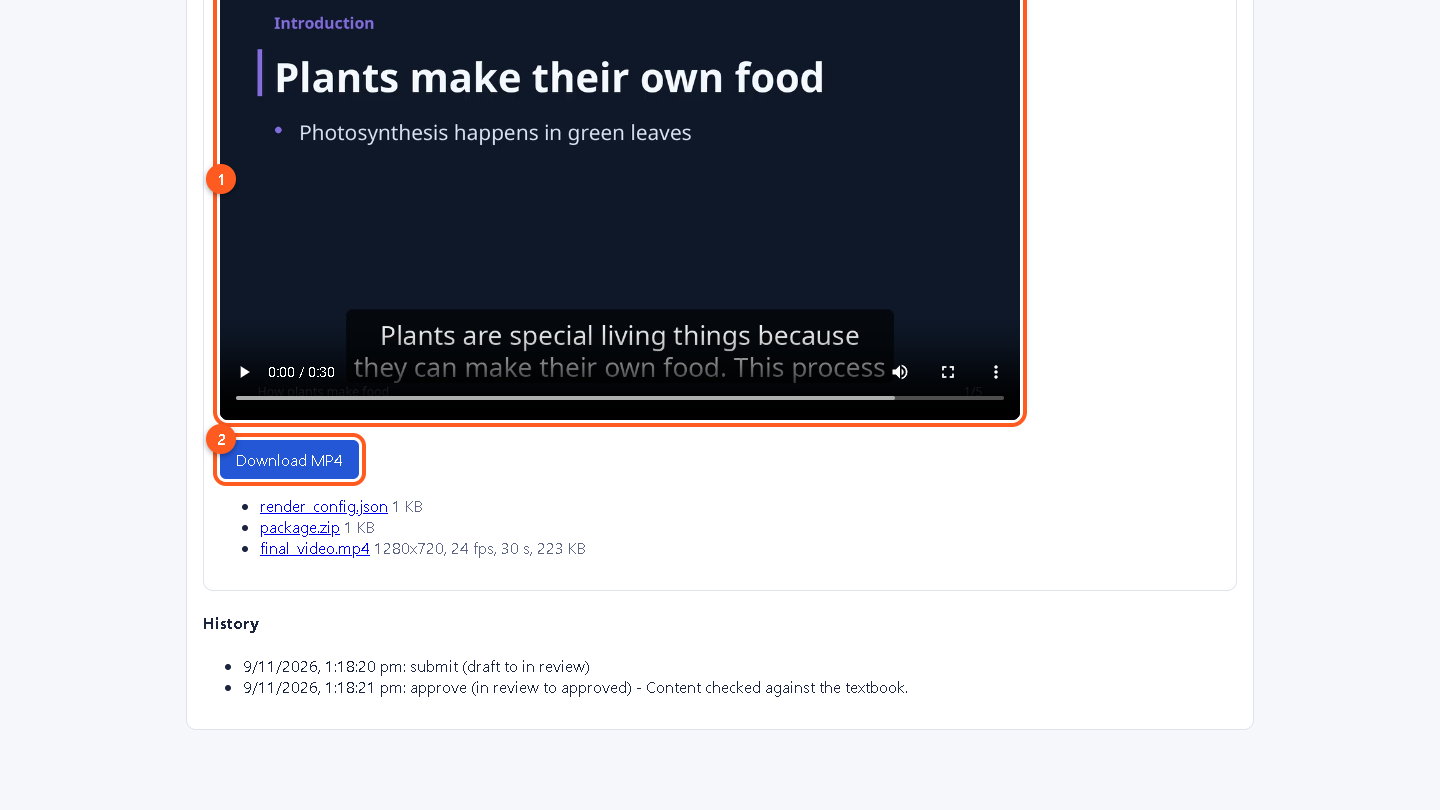
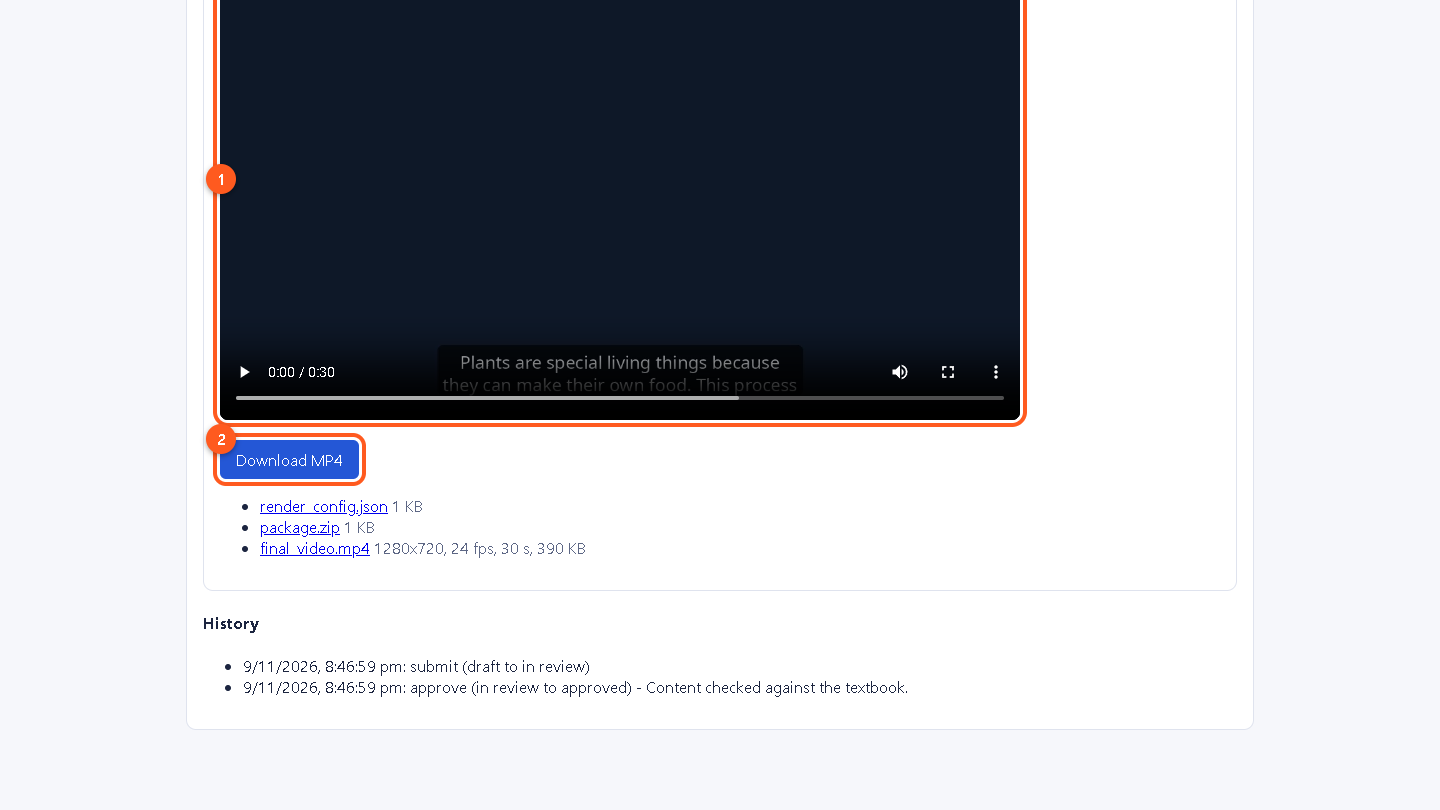
Sprint 9: animated slides user guide, POC report, handover and tracker

Changed region(s): [[0.2188, 0.3704, 0.625, 0.4938], [0.1562, 0.0, 0.5938, 0.1235], [0.1875, 0.1543, 0.4688, 0.1852]]

diff --git a/docs/poc/write_report.py b/docs/poc/write_report.py
@@ -22,7 +22,7 @@ report = f"""# Sprint 7 POC report: Class 7 Science, Nutrition in Plants / Photo
 
 Three videos, one per language, each made through the real chain: Academic API (import, approve, generate) -> Video Engine API -> worker -> MP4 -> Academic storage -> download. Content is in `docs/poc/<language>/` (10 slides each). The run is reproducible with `docs/poc/run_poc.py`.
 
-**Overall: the pipeline works for all three languages. Hindi and Marathi narration is NOT validated (BLOCKED), and the English voice is only a test voice.** Do not present these as final videos.
+**Overall: the pipeline works for all three languages. Hindi and Marathi narration is NOT validated (BLOCKED), and the English voice is only a test voice.** Do not present these as final videos. The slides are Level 1 animated slides; the earlier static-slide run is kept in `results-static/`.
 
 ## Results
 
@@ -40,11 +40,17 @@ Three videos, one per language, each made through the real chain: Academic API (
 | Slides match the audio (checked with a frame from the middle of each slide's audio window; the on-screen counter matches the slide) | PASS | PASS (placeholder timing) | PASS (placeholder timing) |
 | **Caption sync with real speech** | PASS in timing logic; not independently checked against a human ear | **BLOCKED** (no speech) | **BLOCKED** (no speech) |
 | Devanagari text shaping on slides and captions | n/a | PASS (visual check of contact sheet) | PASS (visual check of contact sheet) |
-| Visuals / animation | LIMITED: clean text slides (headline and bullets). No diagrams, pictures or animation | same | same |
+| Visuals / animation | PASS for Level 1 animated slides: the headline slides in, bullets/steps/terms appear as the narrator reaches them, the current item is highlighted, arrows are drawn, slides fade between each other. Slides 2, 6, 8 and 10 use a comparison, the equation and two flows. LIMITED: no pictures, characters or 3D | same | same |
 | MP4 valid: H.264 + AAC, 1920x1080, 24 fps, decodes with no errors | PASS | PASS | PASS |
 | Duration about 5 minutes | PASS: {mmss(res['en-IN']['duration_s'])} (script is {res['en-IN']['narration_total_s']} s of narration) | PASS: {mmss(res['hi-IN']['duration_s'])} | PASS: {mmss(res['mr-IN']['duration_s'])}, but placeholder timing; real Marathi speech may be shorter or longer |
 | Reproducibility (same package and audio rendered twice) | PASS: video frames identical = {rep['video_frames_identical']}, audio identical = {rep['audio_identical']}, file bytes identical = {rep['file_bytes_identical']} | not run | not run |
 | End to end without copying files between the two apps | PASS | PASS | PASS |
+
+## Animated slides (second run)
+
+The POC was re-run with `render.style = animated` (the default in the app). Results are in the table above. Animating did not change the run time noticeably (frames that do not change are re-used). Frames from the finished videos (`results/contact-<lang>.png`) show items revealed part-way through slides, the current item in bold, flow arrows being drawn, and correct Devanagari shaping.
+
+Found in this run and fixed: the arrow in the equation slide showed as an empty box in Hindi and Marathi, because the Devanagari font has no arrow glyph. Operators are now drawn as shapes. Narration sync is an estimate from sentence lengths and the real audio duration, not word-level alignment, and was not checked against real Hindi or Marathi speech.
 
 ## What the POC found and fixed
 

diff --git a/docs/poc/POC_REPORT.md b/docs/poc/POC_REPORT.md
@@ -2,15 +2,15 @@
 
 Three videos, one per language, each made through the real chain: Academic API (import, approve, generate) -> Video Engine API -> worker -> MP4 -> Academic storage -> download. Content is in `docs/poc/<language>/` (10 slides each). The run is reproducible with `docs/poc/run_poc.py`.
 
-**Overall: the pipeline works for all three languages. Hindi and Marathi narration is NOT validated (BLOCKED), and the English voice is only a test voice.** Do not present these as final videos.
+**Overall: the pipeline works for all three languages. Hindi and Marathi narration is NOT validated (BLOCKED), and the English voice is only a test voice.** Do not present these as final videos. The slides are Level 1 animated slides; the earlier static-slide run is kept in `results-static/`.
 
 ## Results
 
 | Language | Duration | Resolution | Codec | Decode errors | Size |
 |---|---|---|---|---|---|
-| English | 4:02 | 1920x1080 @ 24 fps | h264 + audio | none | 6.71 MB |
-| Hindi | 4:07 | 1920x1080 @ 24 fps | h264 + audio | none | 2.14 MB |
-| Marathi | 4:04 | 1920x1080 @ 24 fps | h264 + audio | none | 2.05 MB |
+| English | 4:02 | 1920x1080 @ 24 fps | h264 + audio | none | 7.71 MB |
+| Hindi | 4:07 | 1920x1080 @ 24 fps | h264 + audio | none | 3.05 MB |
+| Marathi | 4:04 | 1920x1080 @ 24 fps | h264 + audio | none | 3.0 MB |
 
 ## Validation against the POC criteria
 
@@ -22,11 +22,17 @@ Three videos, one per language, each made through the real chain: Academic API (
 | Slides match the audio (checked with a frame from the middle of each slide's audio window; the on-screen counter matches the slide) | PASS | PASS (placeholder timing) | PASS (placeholder timing) |
 | **Caption sync with real speech** | PASS in timing logic; not independently checked against a human ear | **BLOCKED** (no speech) | **BLOCKED** (no speech) |
 | Devanagari text shaping on slides and captions | n/a | PASS (visual check of contact sheet) | PASS (visual check of contact sheet) |
-| Visuals / animation | LIMITED: clean text slides (headline and bullets). No diagrams, pictures or animation | same | same |
+| Visuals / animation | PASS for Level 1 animated slides: the headline slides in, bullets/steps/terms appear as the narrator reaches them, the current item is highlighted, arrows are drawn, slides fade between each other. Slides 2, 6, 8 and 10 use a comparison, the equation and two flows. LIMITED: no pictures, characters or 3D | same | same |
 | MP4 valid: H.264 + AAC, 1920x1080, 24 fps, decodes with no errors | PASS | PASS | PASS |
 | Duration about 5 minutes | PASS: 4:02 (script is 242.2 s of narration) | PASS: 4:07 | PASS: 4:04, but placeholder timing; real Marathi speech may be shorter or longer |
 | Reproducibility (same package and audio rendered twice) | PASS: video frames identical = True, audio identical = True, file bytes identical = True | not run | not run |
 | End to end without copying files between the two apps | PASS | PASS | PASS |
+
+## Animated slides (second run)
+
+The POC was re-run with `render.style = animated` (the default in the app). Results are in the table above. Animating did not change the run time noticeably (frames that do not change are re-used). Frames from the finished videos (`results/contact-<lang>.png`) show items revealed part-way through slides, the current item in bold, flow arrows being drawn, and correct Devanagari shaping.
+
+Found in this run and fixed: the arrow in the equation slide showed as an empty box in Hindi and Marathi, because the Devanagari font has no arrow glyph. Operators are now drawn as shapes. Narration sync is an estimate from sentence lengths and the real audio duration, not word-level alignment, and was not checked against real Hindi or Marathi speech.
 
 ## What the POC found and fixed
 

diff --git a/docs/user-guide/USER_GUIDE.md b/docs/user-guide/USER_GUIDE.md
@@ -133,6 +133,27 @@ Production operator, on an **approved** version, in step 5 **Make the video**.
 
 If something fails, the message says what happened. **Try again** is offered when it is safe; **Cancel** stops an unfinished video; **Make the video again** starts a new one after content changes.
 
+## 7. Animated slides
+
+Videos are made with **animated slides** by default (Slides: *Animated (recommended)* in step 5; choose *Plain* for still slides). The headline slides in, the points of each slide appear one by one as the narrator reaches them, the point being spoken is highlighted, and slides fade into each other. Timing follows the narration sentence by sentence (an estimate, not word by word).
+
+A slide can use a layout instead of bullets. The ChatGPT prompt already asks for them, in `lesson_plan.json` under `slides`:
+
+| Layout | Use it for | Example |
+|---|---|---|
+| `bullets` (default) | short points | `"bullets": ["Sunlight gives energy", "Water from the roots"]` |
+| `flow` | a procedure or inputs, process, outputs; 2 to 5 steps, arrows are drawn | `"diagram": {"steps": ["Boil the leaf", "Add iodine", "Blue-black means starch"]}` |
+| `equation` | a formula; terms appear in order | `"diagram": {"terms": ["Carbon dioxide", "+", "Water", "→", "Glucose"]}` |
+| `cycle` | a loop of 3 to 6 stages, e.g. the water cycle | `"diagram": {"nodes": ["Evaporation", "Condensation", "Precipitation", "Collection"]}` |
+| `compare` | two things side by side | `"diagram": {"left": {"title": "A", "points": ["..."]}, "right": {"title": "B", "points": ["..."]}}` |
+
+Keep labels short (1 to 4 words) and list items in the order the narrator says them. If a diagram is not valid, the import check names the slide and the problem. Details: `ScriptToVideo/docs/architecture/ANIMATED_SLIDES.md`.
+
+![Flow](img/anim-flow.png)
+![Equation](img/anim-equation.png)
+![Cycle](img/anim-cycle.png)
+![Compare](img/anim-compare.png)
+
 ## Videos for each part
 
 | Part | Video |
@@ -141,7 +162,8 @@ If something fails, the message says what happened. **Try again** is offered whe
 | Set up and create a lesson (sections 1 and 2) | `docs/demos/sprint-4-foundation.mp4` |
 | From content to approval (sections 3 to 5) | `docs/demos/sprint-5-import-review.mp4` |
 | Make the video (section 6) | `docs/demos/sprint-6-integration.mp4` |
-| **Everything above in one video (7.5 minutes)** | `docs/demos/full-user-guide.mp4` |
+| Animated slides (section 7) | `docs/demos/sprint-9-animated-slides.mp4` |
+| **Everything above in one video (about 10 minutes)** | `docs/demos/full-user-guide.mp4` |
 
 
 ## Rebuilding the screens and videos

diff --git a/docs/HANDOVER.md b/docs/HANDOVER.md
@@ -63,7 +63,7 @@ Names and purpose only: `.env.example` in each repo; production values in Coolif
 
 ## 9. Known limitations and variant readiness
 
-- Slides are clean text (headline and bullets); no pictures, diagrams or animation unless images are supplied in the package.
+- **Level 1 animated slides** (default; `render.style`): headline, bullets, flow, equation, cycle and comparison layouts, narration-synced reveals, highlighting, fades. Timing is an estimate from sentence lengths, not word-level. No pictures, photographs, characters or 3D (Level 2 and 3 are not built). Plain still slides remain available. See `ScriptToVideo/docs/architecture/ANIMATED_SLIDES.md`.
 - Colab narration is a manual step per language version; the notebook was never run; the model (AI4Bharat Indic Parler-TTS) and its licence are unvalidated.
 - Latin letters inside Hindi/Marathi text have no glyph in Noto Sans Devanagari (mixed-script text needs a fallback font).
 - Session is an 8-hour signed cookie: no refresh, no revocation check. No admin UI for roles (API only).
@@ -81,6 +81,7 @@ User-guide videos (real screens, numbered click targets): `Media\Academics\docs\
 
 ## 12. What the owner needs to do
 
+0. Production was briefly unavailable (about 40 s) during the last redeploys; expect that on every deploy.
 1. Add an `academics` subscription for your company in Identity (platform admin), then sign in first so you become the company admin.
 2. Run the production smoke test with the user guide.
 3. Run the Colab notebook per language and listen; decide on the voice model.
